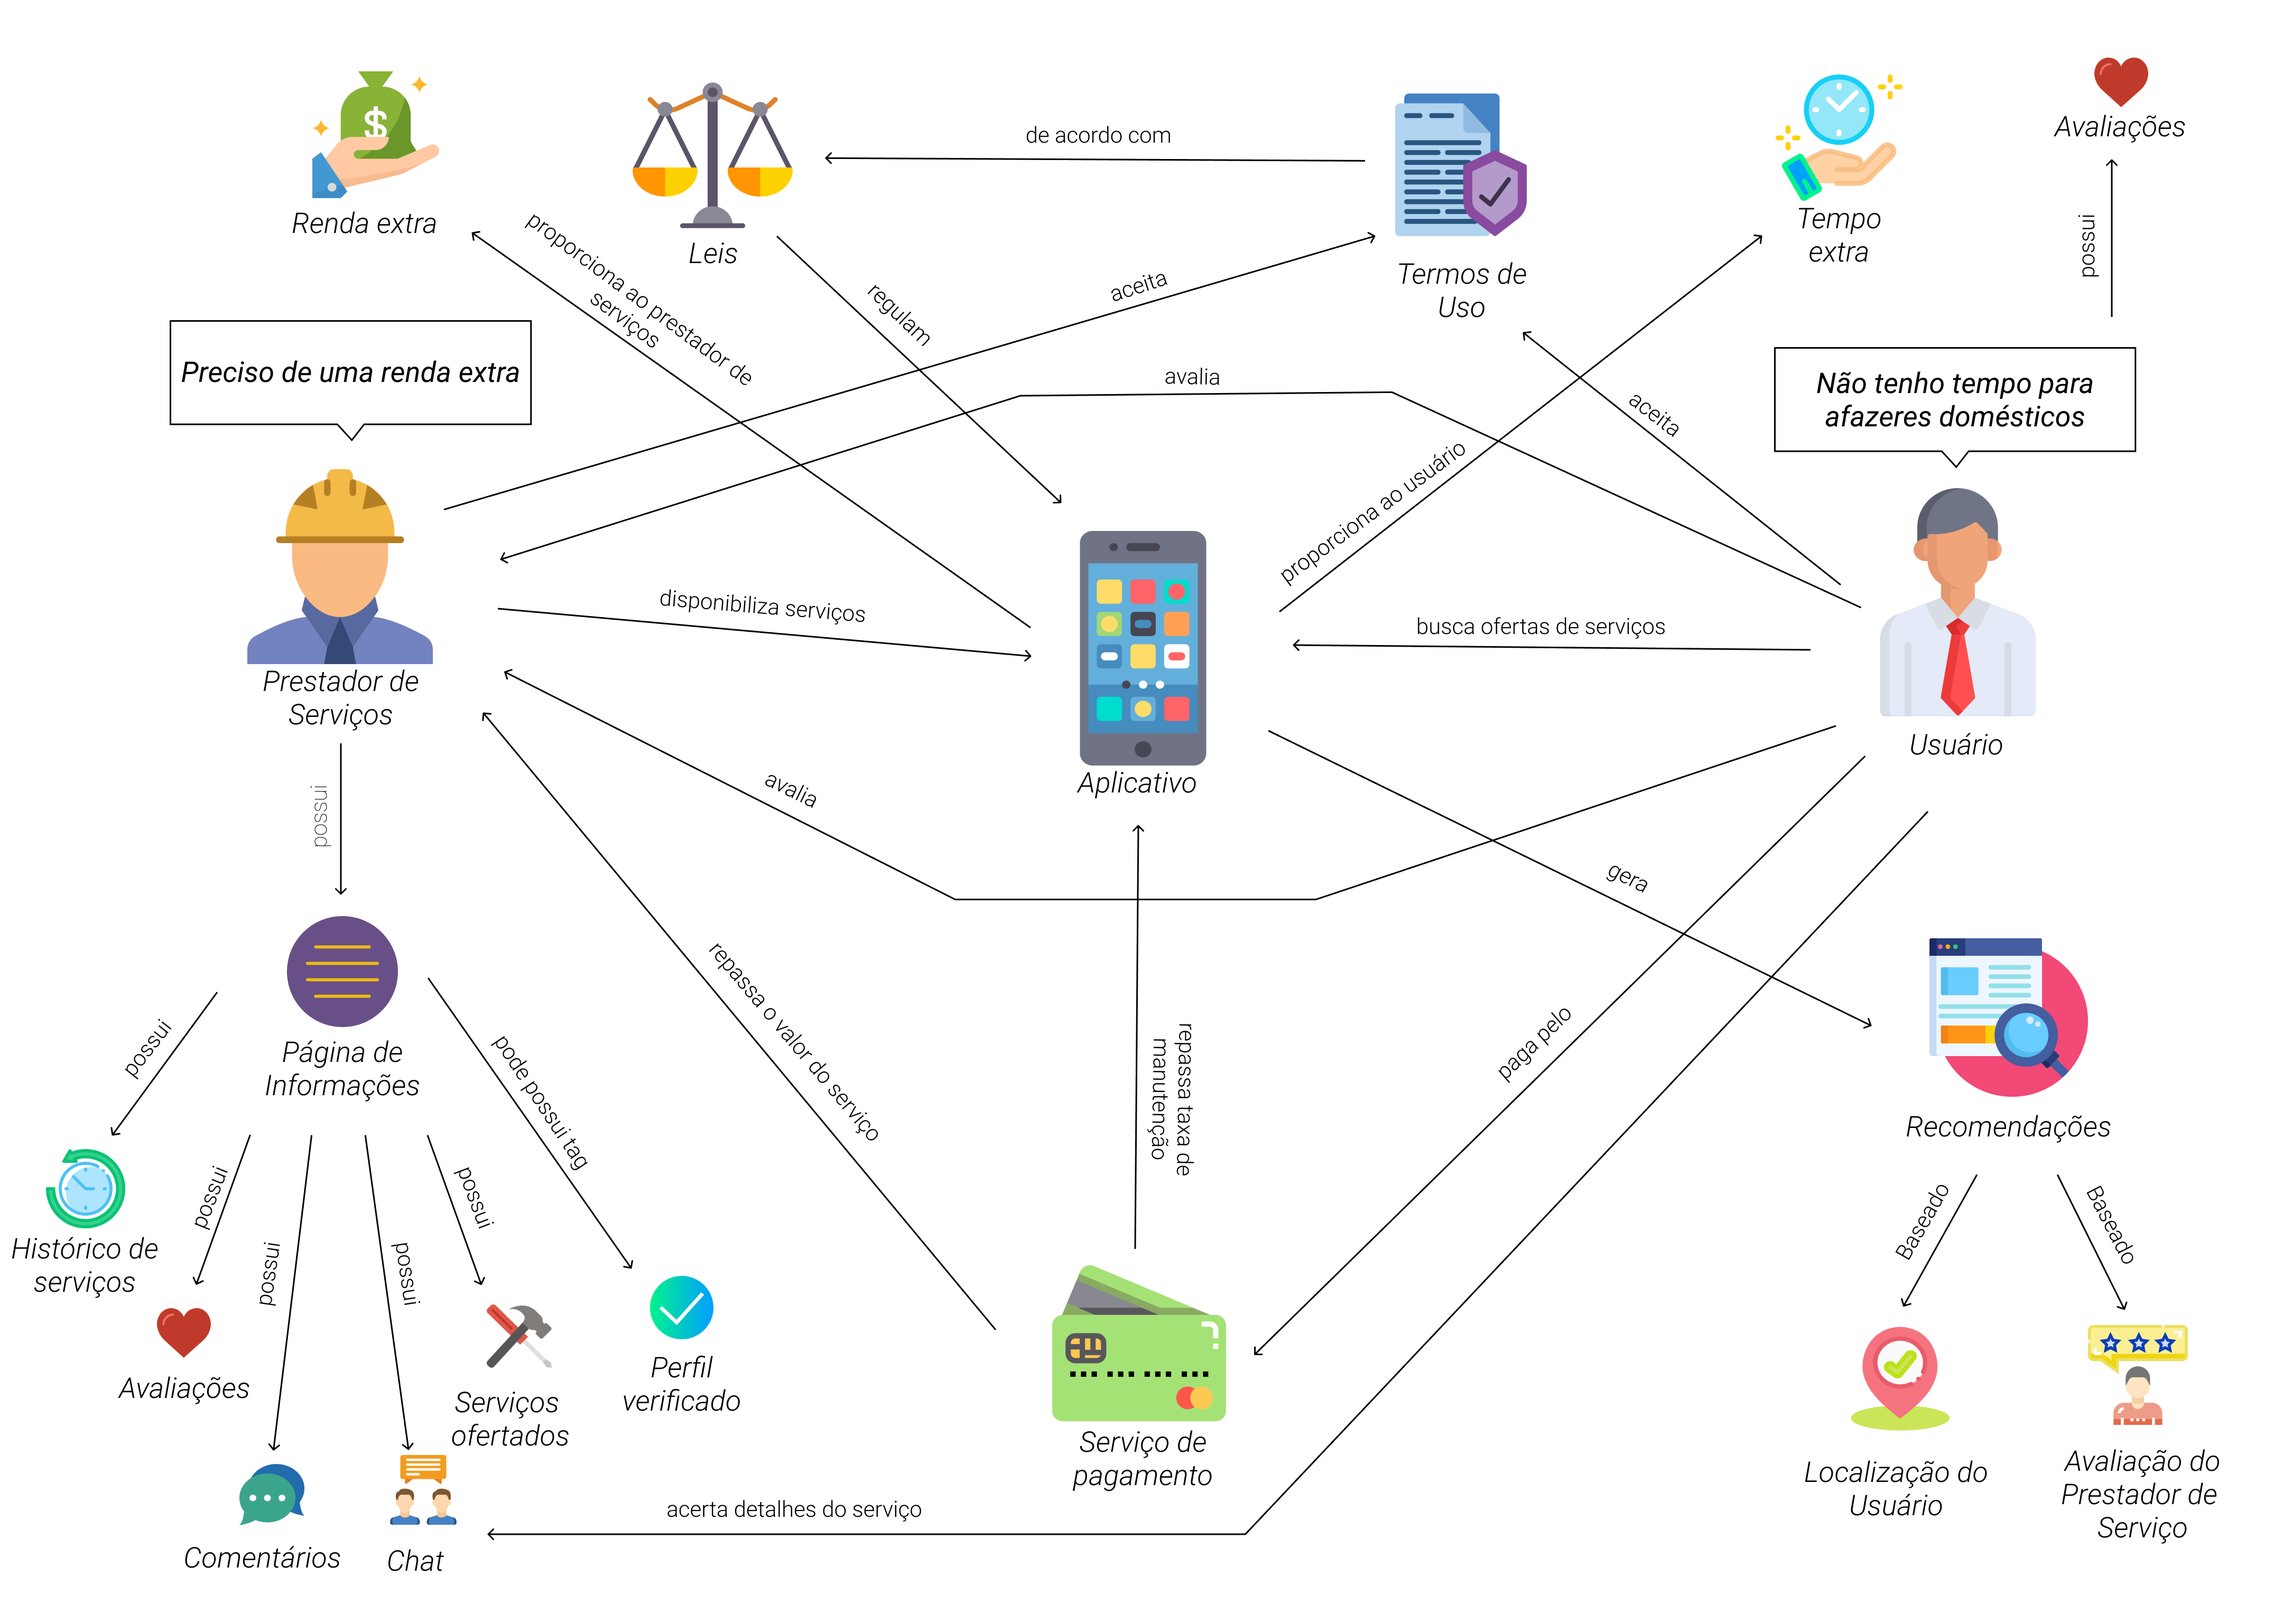
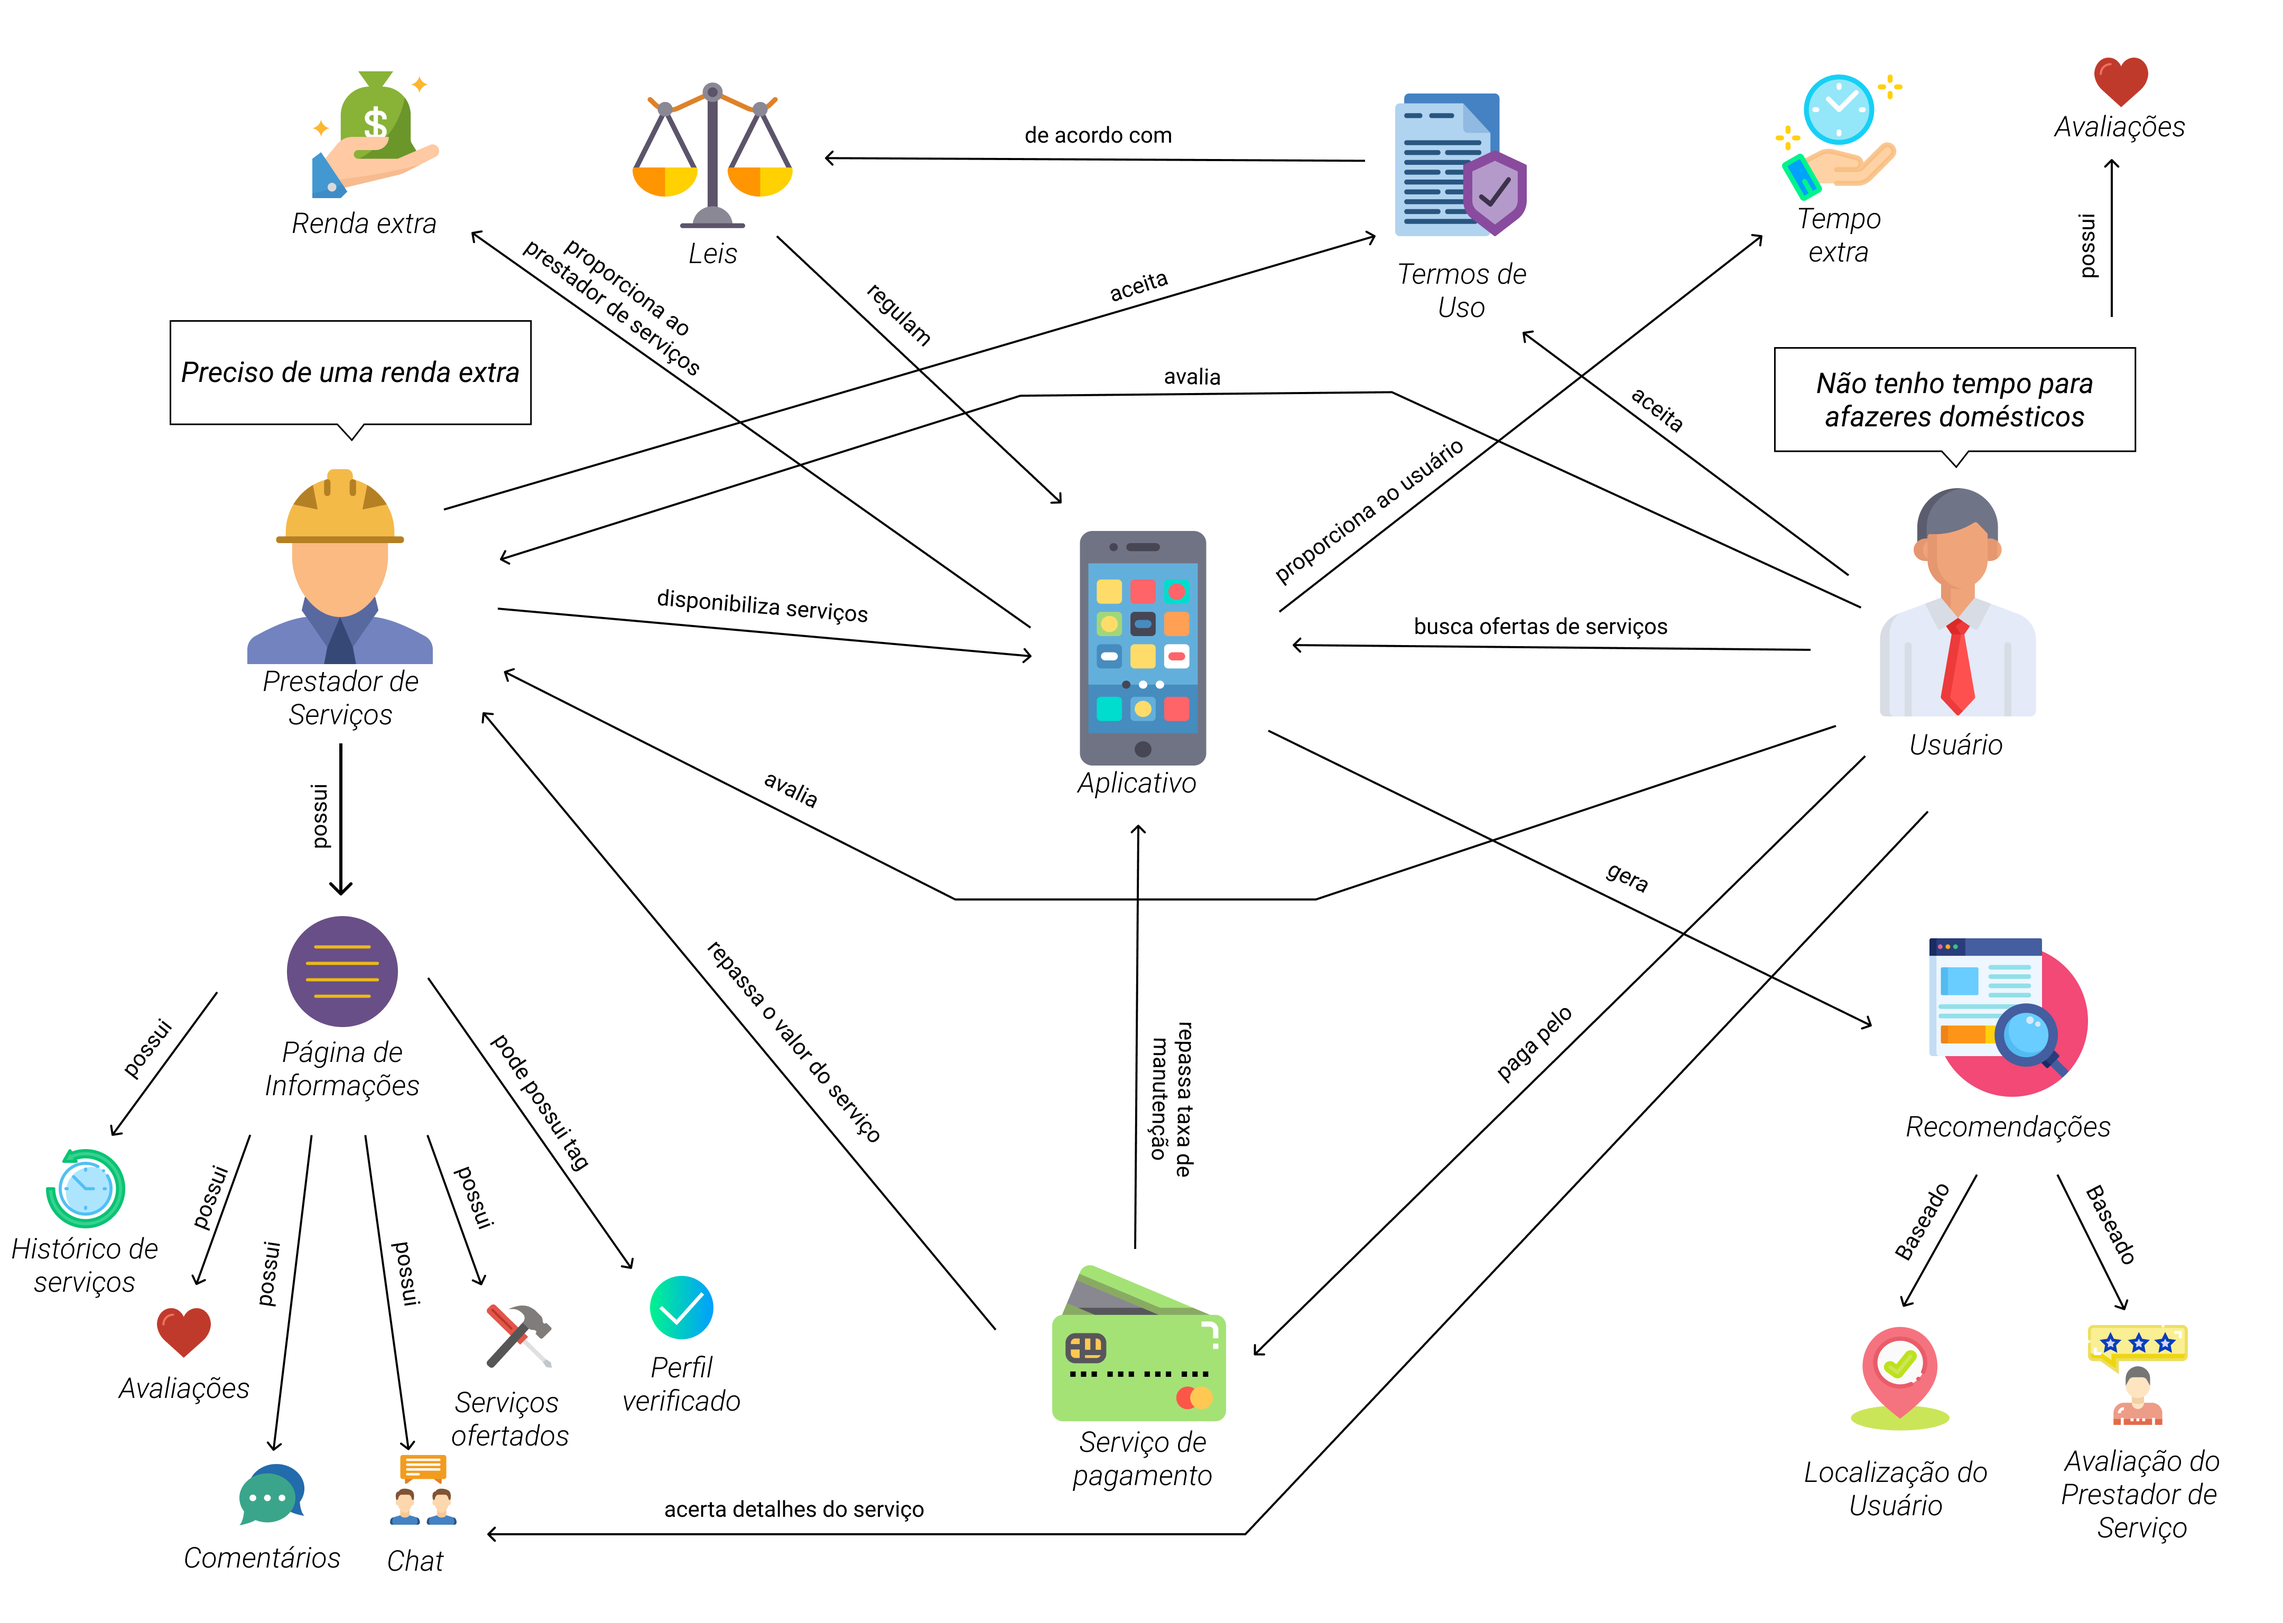
Improve readability of sprint's richpictures

diff --git a/docs/DS/dinamica-e-seminario-1/RichPicture.md b/docs/DS/dinamica-e-seminario-1/RichPicture.md
@@ -114,7 +114,7 @@ Outro ponto levantado foi a importância da visão dos dois grandes públicos do
 
 ### RP Prestador Serviço V1
 
-![rp_prestador_servico](../../../assets/rich-pictures/rp_prestador_servico.png)
+![rp_prestador_servico](../../../assets/rich-pictures/rp_prestador_servico_v1.png)
 
 **Autor:** [Youssef Muhamad](https://github.com/youssef-md)
 
